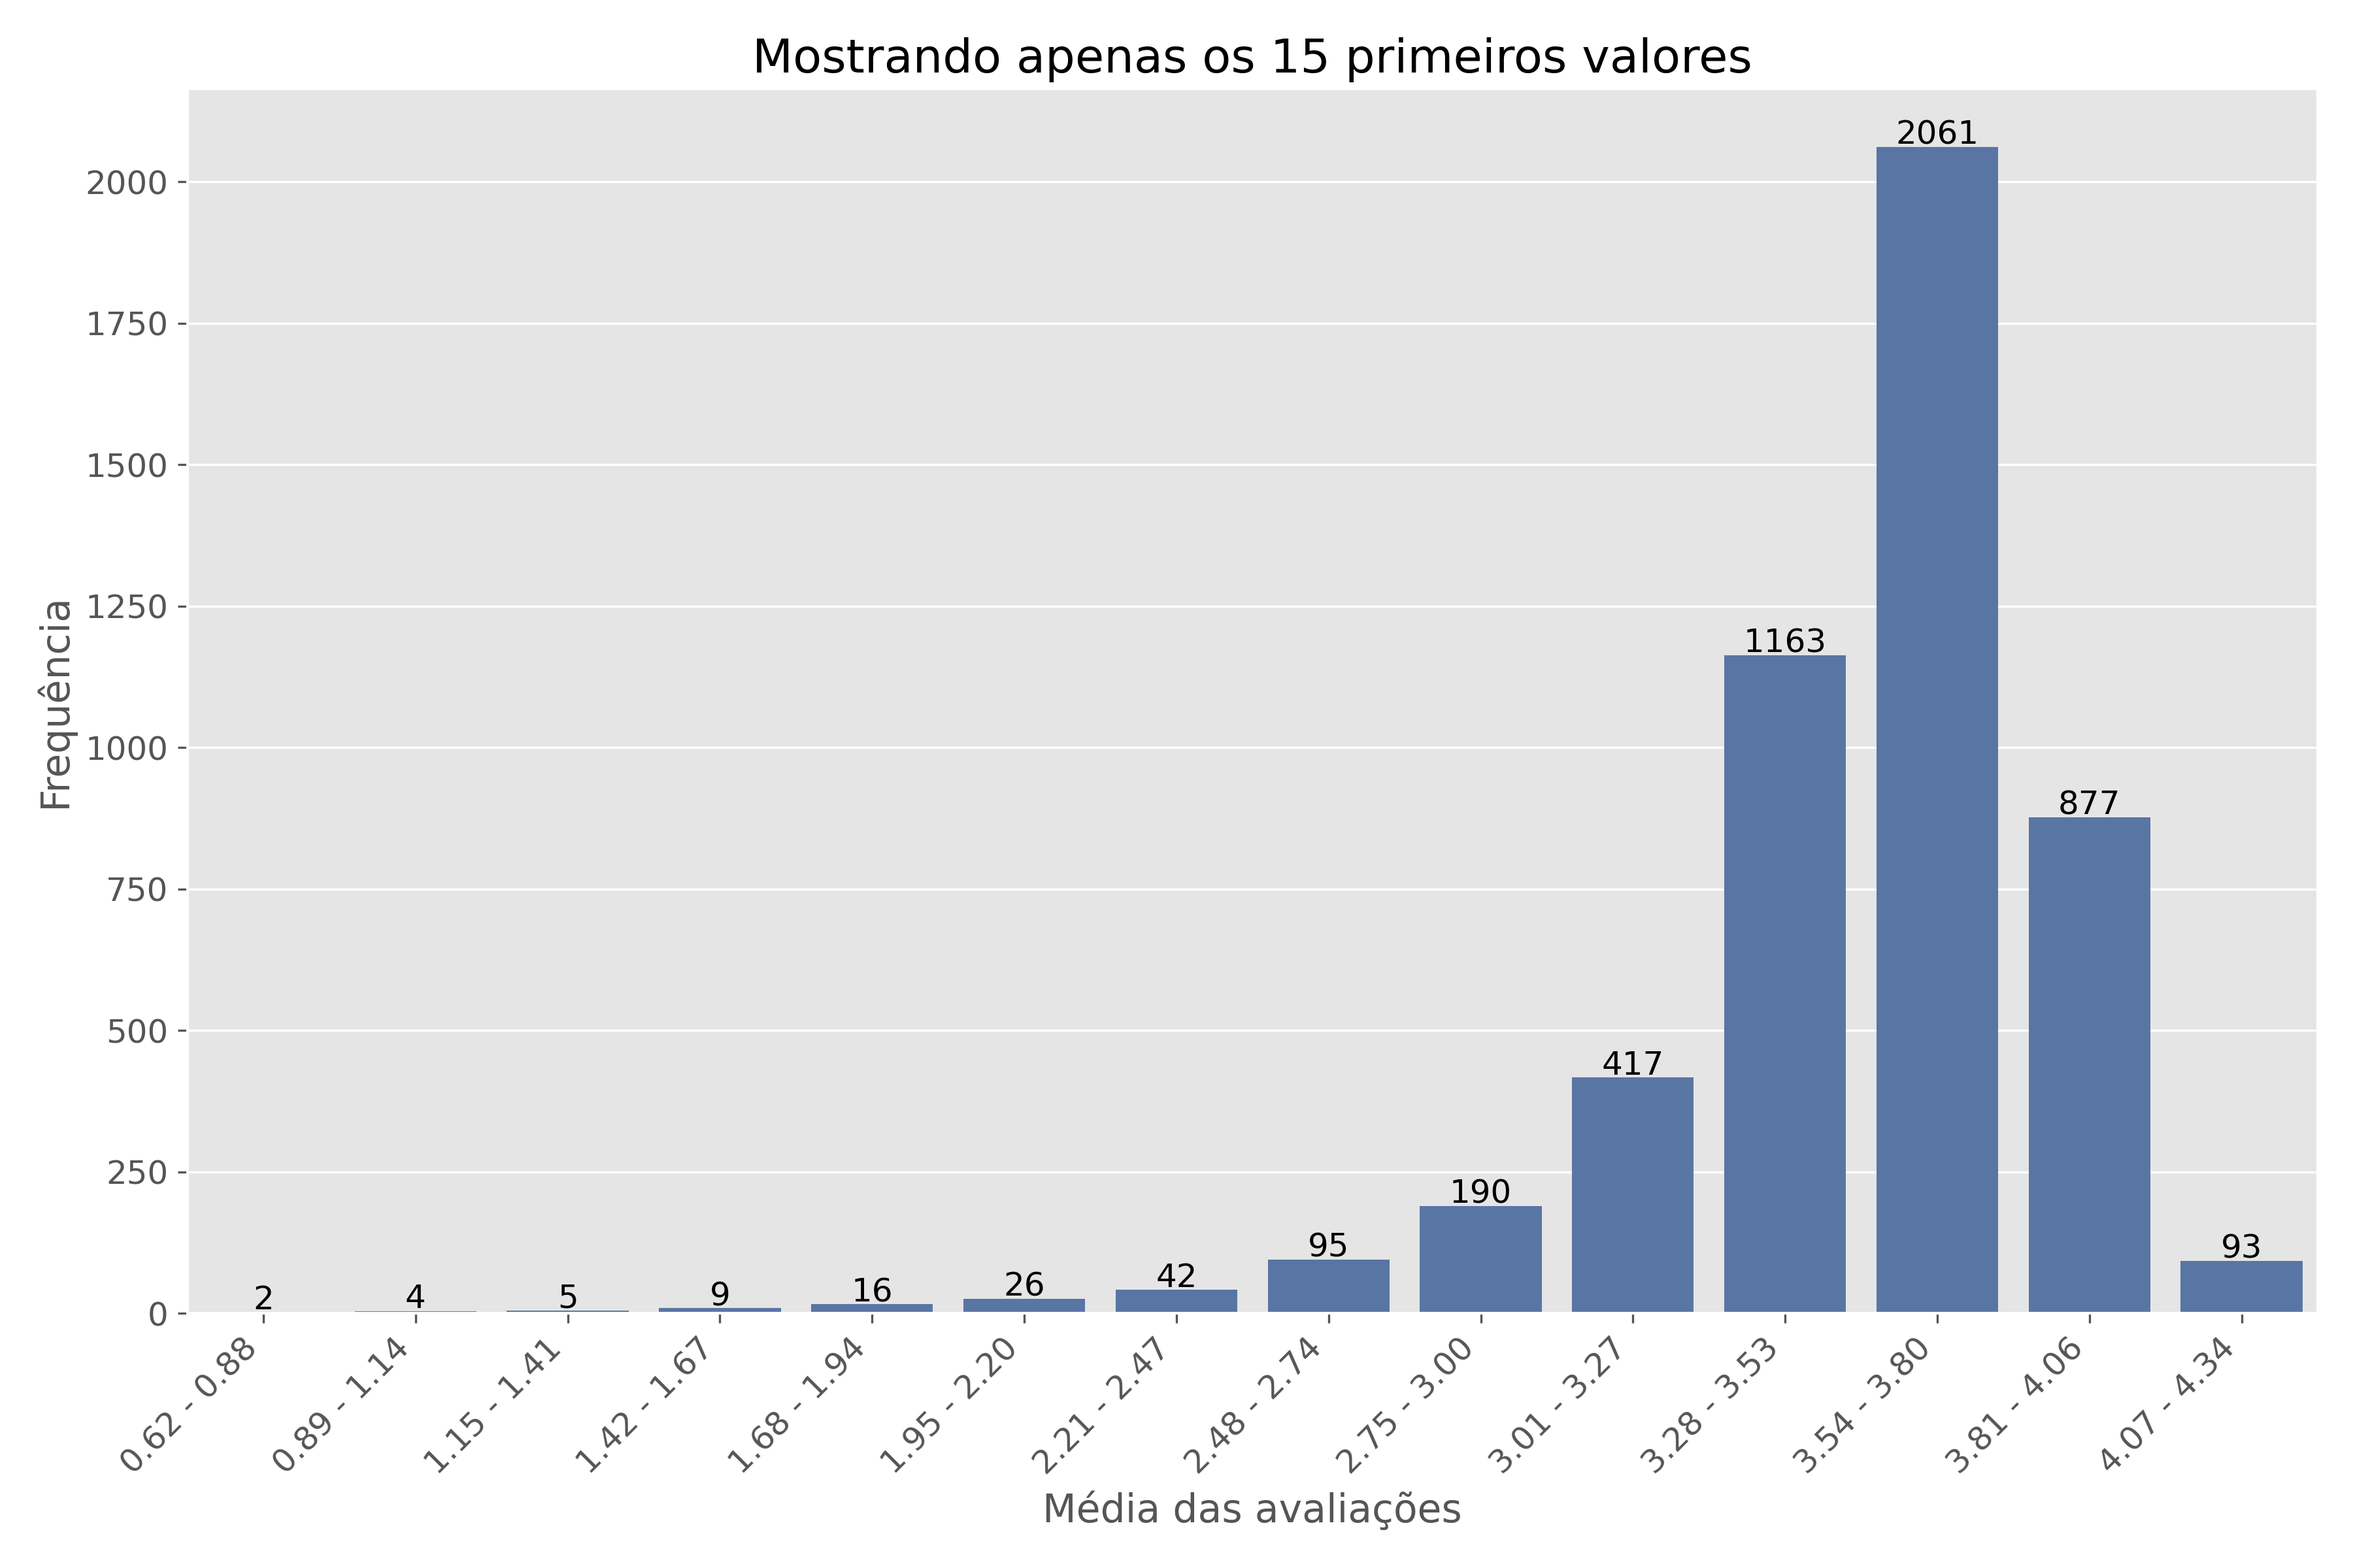
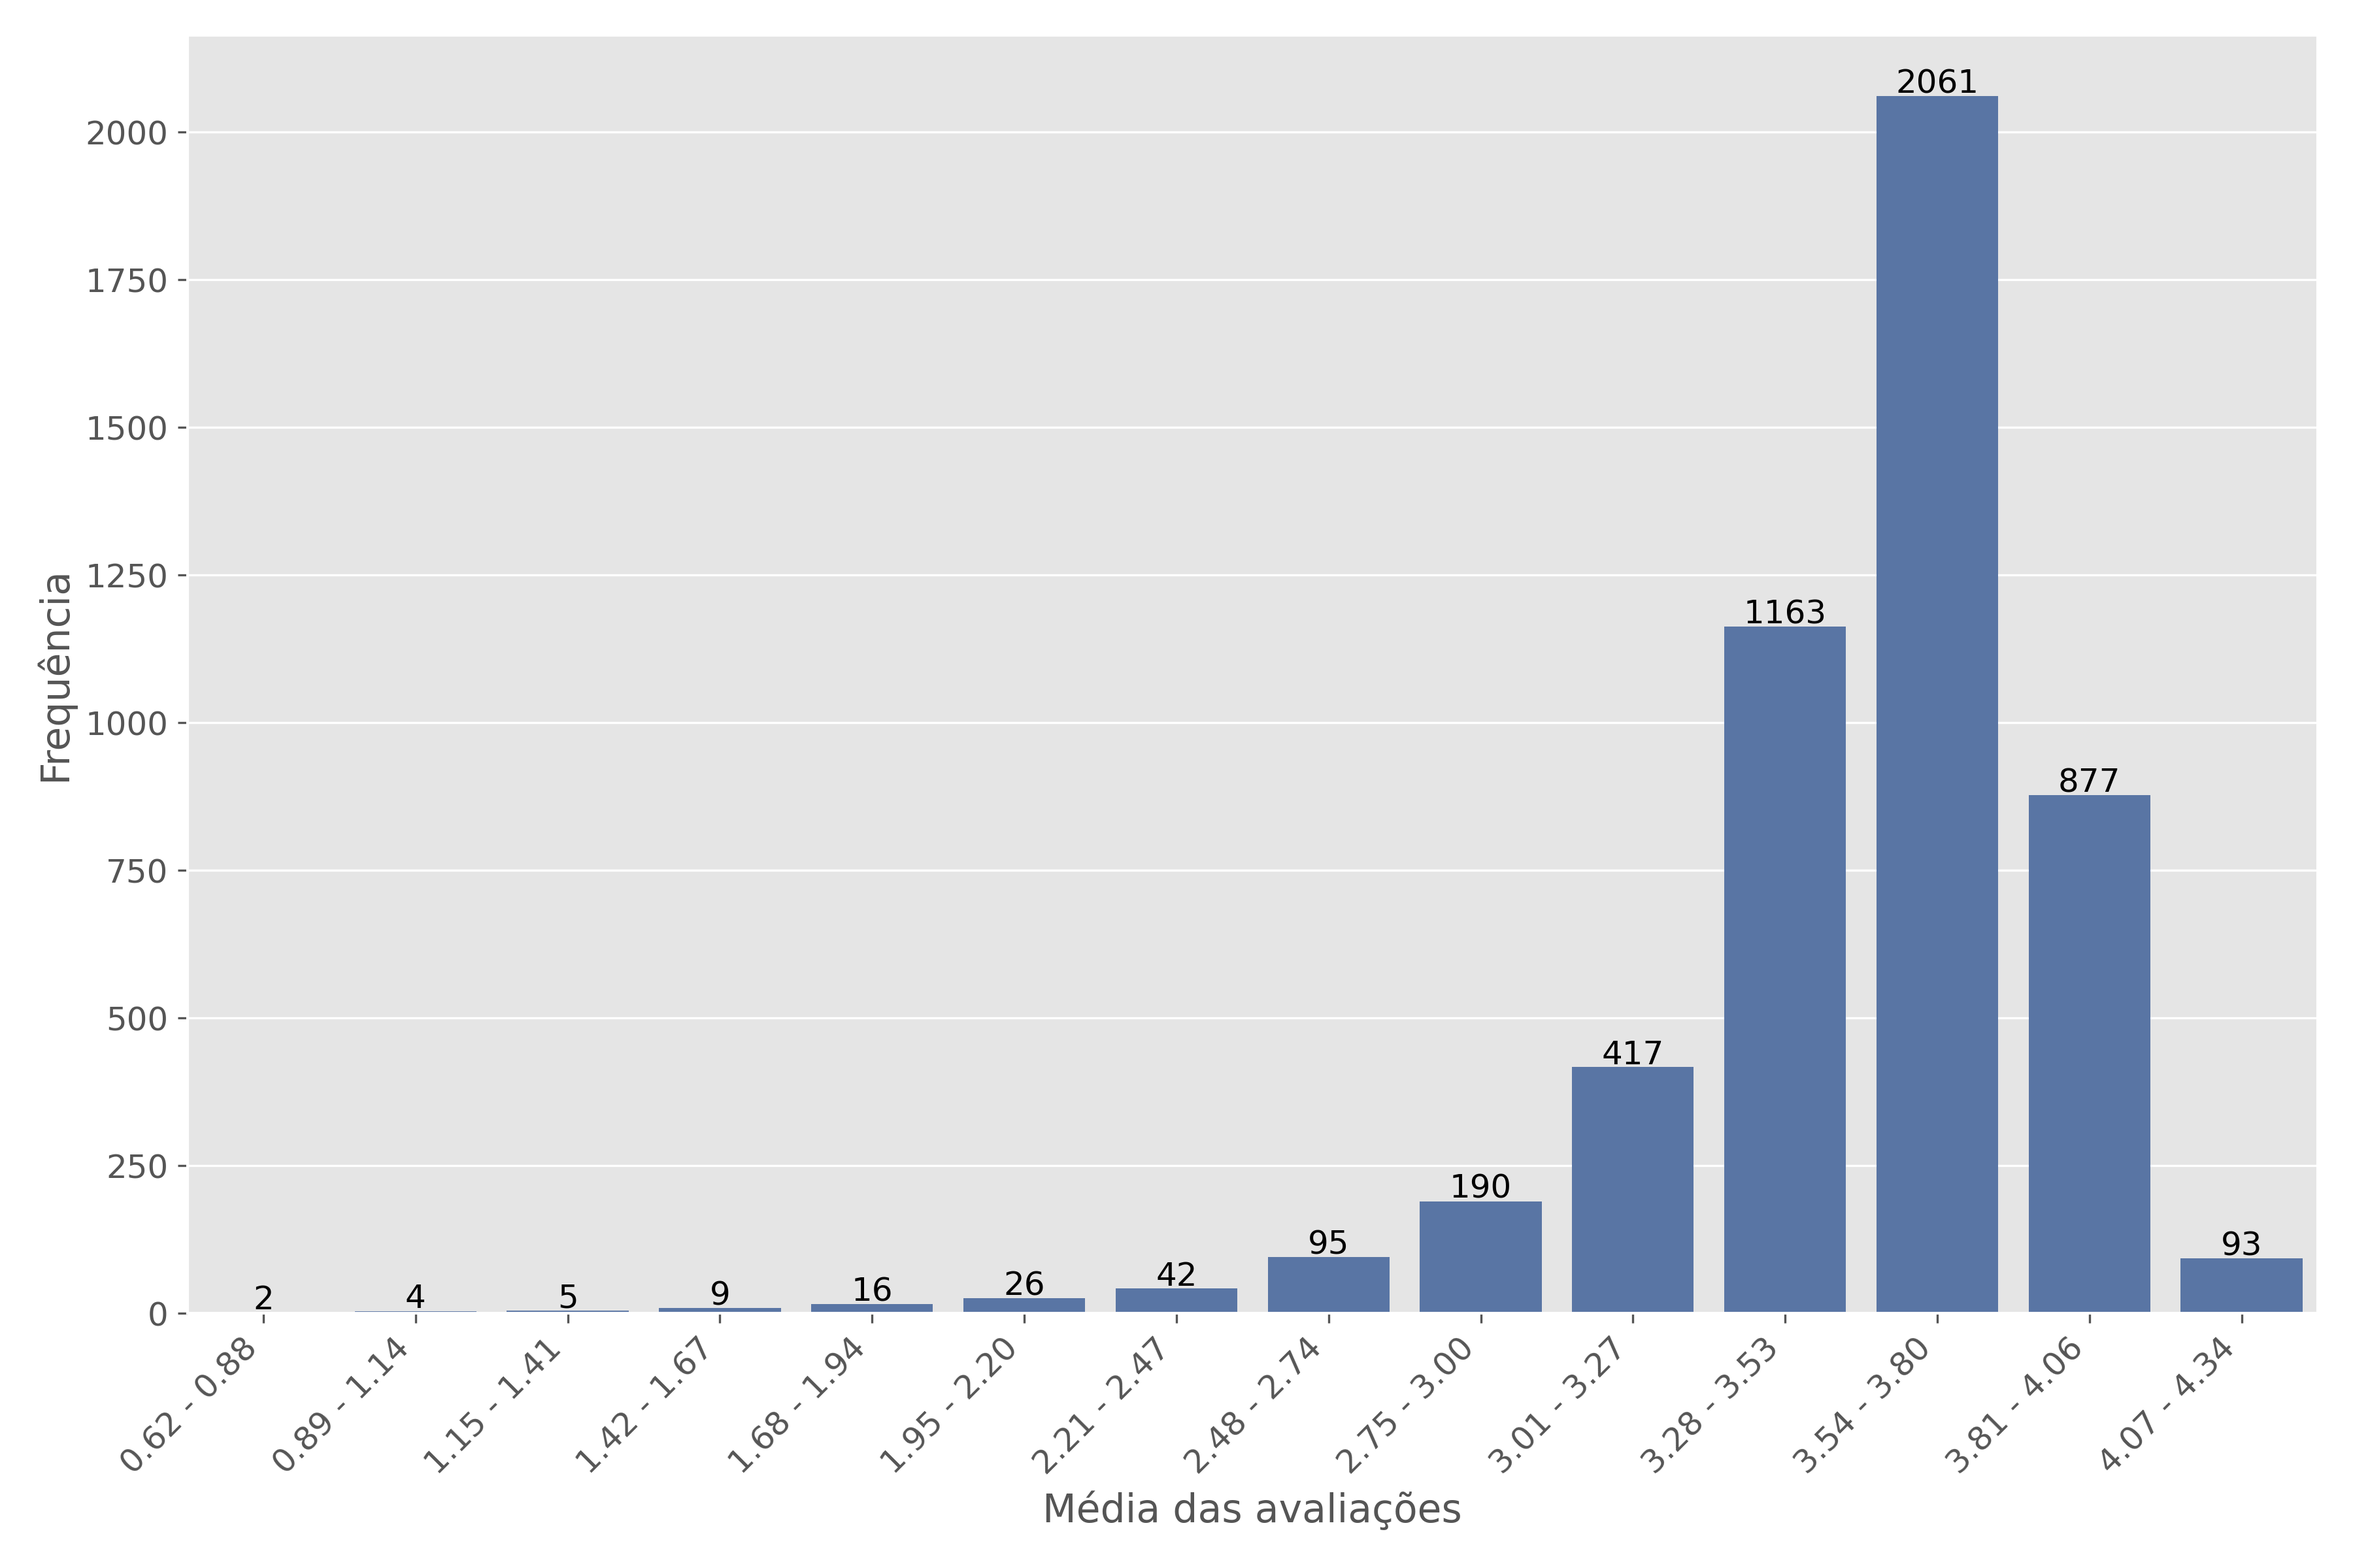
fix: now review_count has 2 freq tables

diff --git a/atividade_1/src/frequency_tables.py b/atividade_1/src/frequency_tables.py
@@ -3,6 +3,7 @@ Módulo para construção das tabelas de frequência
 """
 
 import csv
+import os
 from datetime import datetime, timedelta
 from typing import Iterable
 
@@ -152,14 +153,25 @@ def generate_quantitative_tables() -> None:
         # Cria as bordas dos intervalos para as classes
         bin_edges = create_bin_edges(variable, min_val, max_val, nbins)
 
-        
+        suffix = ''
         if variable == "review_count":
+            # Gambiarra necessária
+            # Primeiro cria a tabela original, sem ajustes para o gráfico
+            
+            labels = create_class_labels(variable, bin_edges, nbins)
+            freq_bins = calculate_class_frequencies(variable, values, bin_edges, nbins)
+            create_and_save_table(variable, labels, freq_bins)
+
+            # Ajusta os intervalos para que o gráfico fique com boas proporções
+            # Uma nova tabela de frequência será gerada só para gráfico
             bin_edges = bin_edges.tolist()
             bin_edges.insert(1, 70)
             last = bin_edges[-1]
             bin_edges = bin_edges[:8]
             bin_edges[-1] = last
             nbins = len(bin_edges) - 1
+            
+            suffix = '_ajustado'
 
         # Cria rótulos descritivos para as classes
         labels = create_class_labels(variable, bin_edges, nbins)
@@ -168,7 +180,7 @@ def generate_quantitative_tables() -> None:
         freq_bins = calculate_class_frequencies(variable, values, bin_edges, nbins)
 
         # Cria a tabela e salva como CSV
-        create_and_save_table(variable, labels, freq_bins)
+        create_and_save_table(variable, labels, freq_bins, suffix)
 
 
 def collect_variable_values(variable: str) -> list[tuple]:
@@ -318,7 +330,7 @@ def calculate_class_frequencies(variable: str, values: list[tuple], bin_edges: l
     return freq_bins
 
 
-def create_and_save_table(variable: str, labels: list, freq_bins: list) -> None:
+def create_and_save_table(variable: str, labels: list, freq_bins: list, file_suffix: str = '') -> None:
     """
     Cria a tabela de frequência e salva como CSV.
 
@@ -331,7 +343,7 @@ def create_and_save_table(variable: str, labels: list, freq_bins: list) -> None:
     table = {variable: labels, "Frequência": freq_bins}
     df = pd.DataFrame(table)
     df = add_relative_frequency(df)
-    df.to_csv(f"outputs/{variable}_table.csv", index=False)
+    df.to_csv(f"outputs/{variable}{file_suffix}_table.csv", index=False)
 
 
 def generate_frequency_tables() -> None:

diff --git a/atividade_1/src/variables_graphs.py b/atividade_1/src/variables_graphs.py
@@ -56,7 +56,10 @@ def plot_quantitative_graph(filename: str):
     """
 
     # Lê o arquivo CSV
-    df = pd.read_csv(f"outputs/{filename}_table.csv")
+    path = f"outputs/{filename}_table.csv"
+    if filename == "Número de resenhas":
+        path = f"outputs/{filename}_ajustado_table.csv"
+    df = pd.read_csv(path)
     
     plt.figure(figsize=(12, 8))
     
